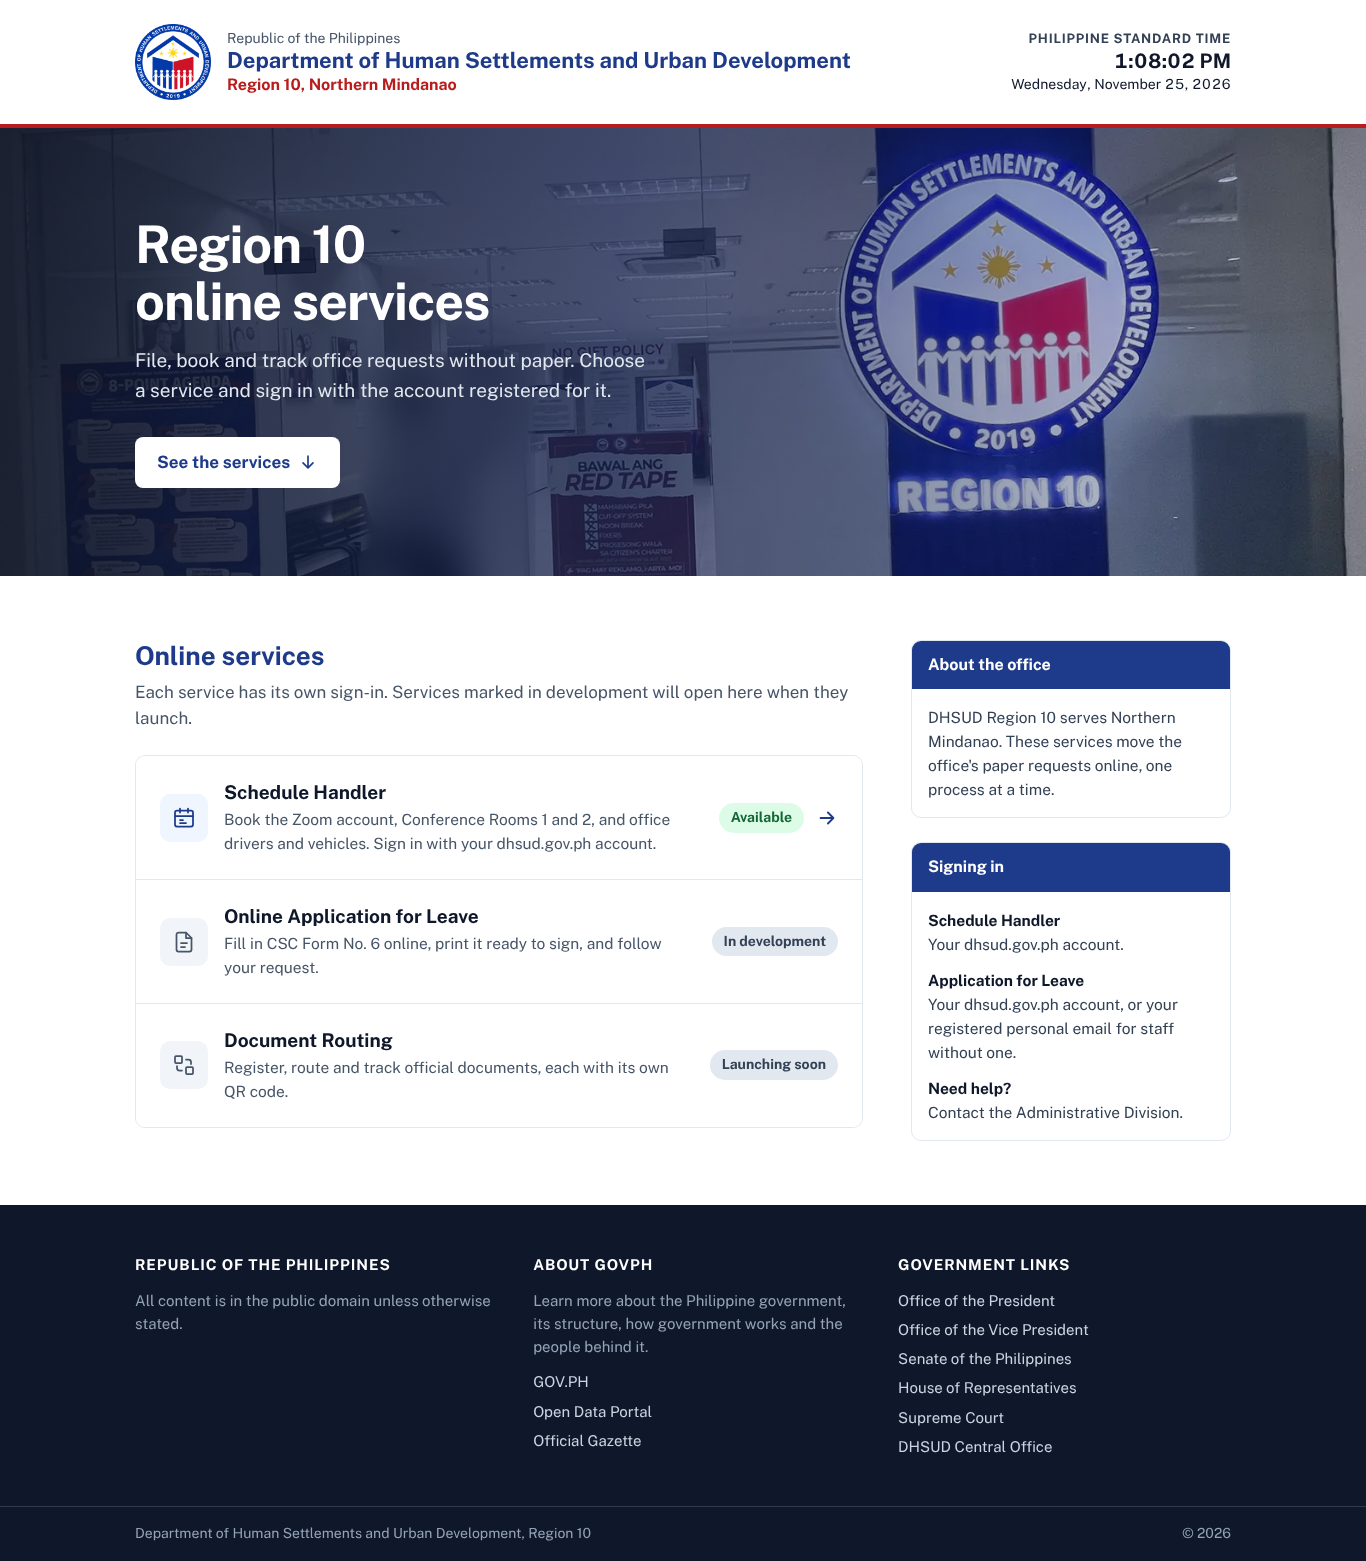
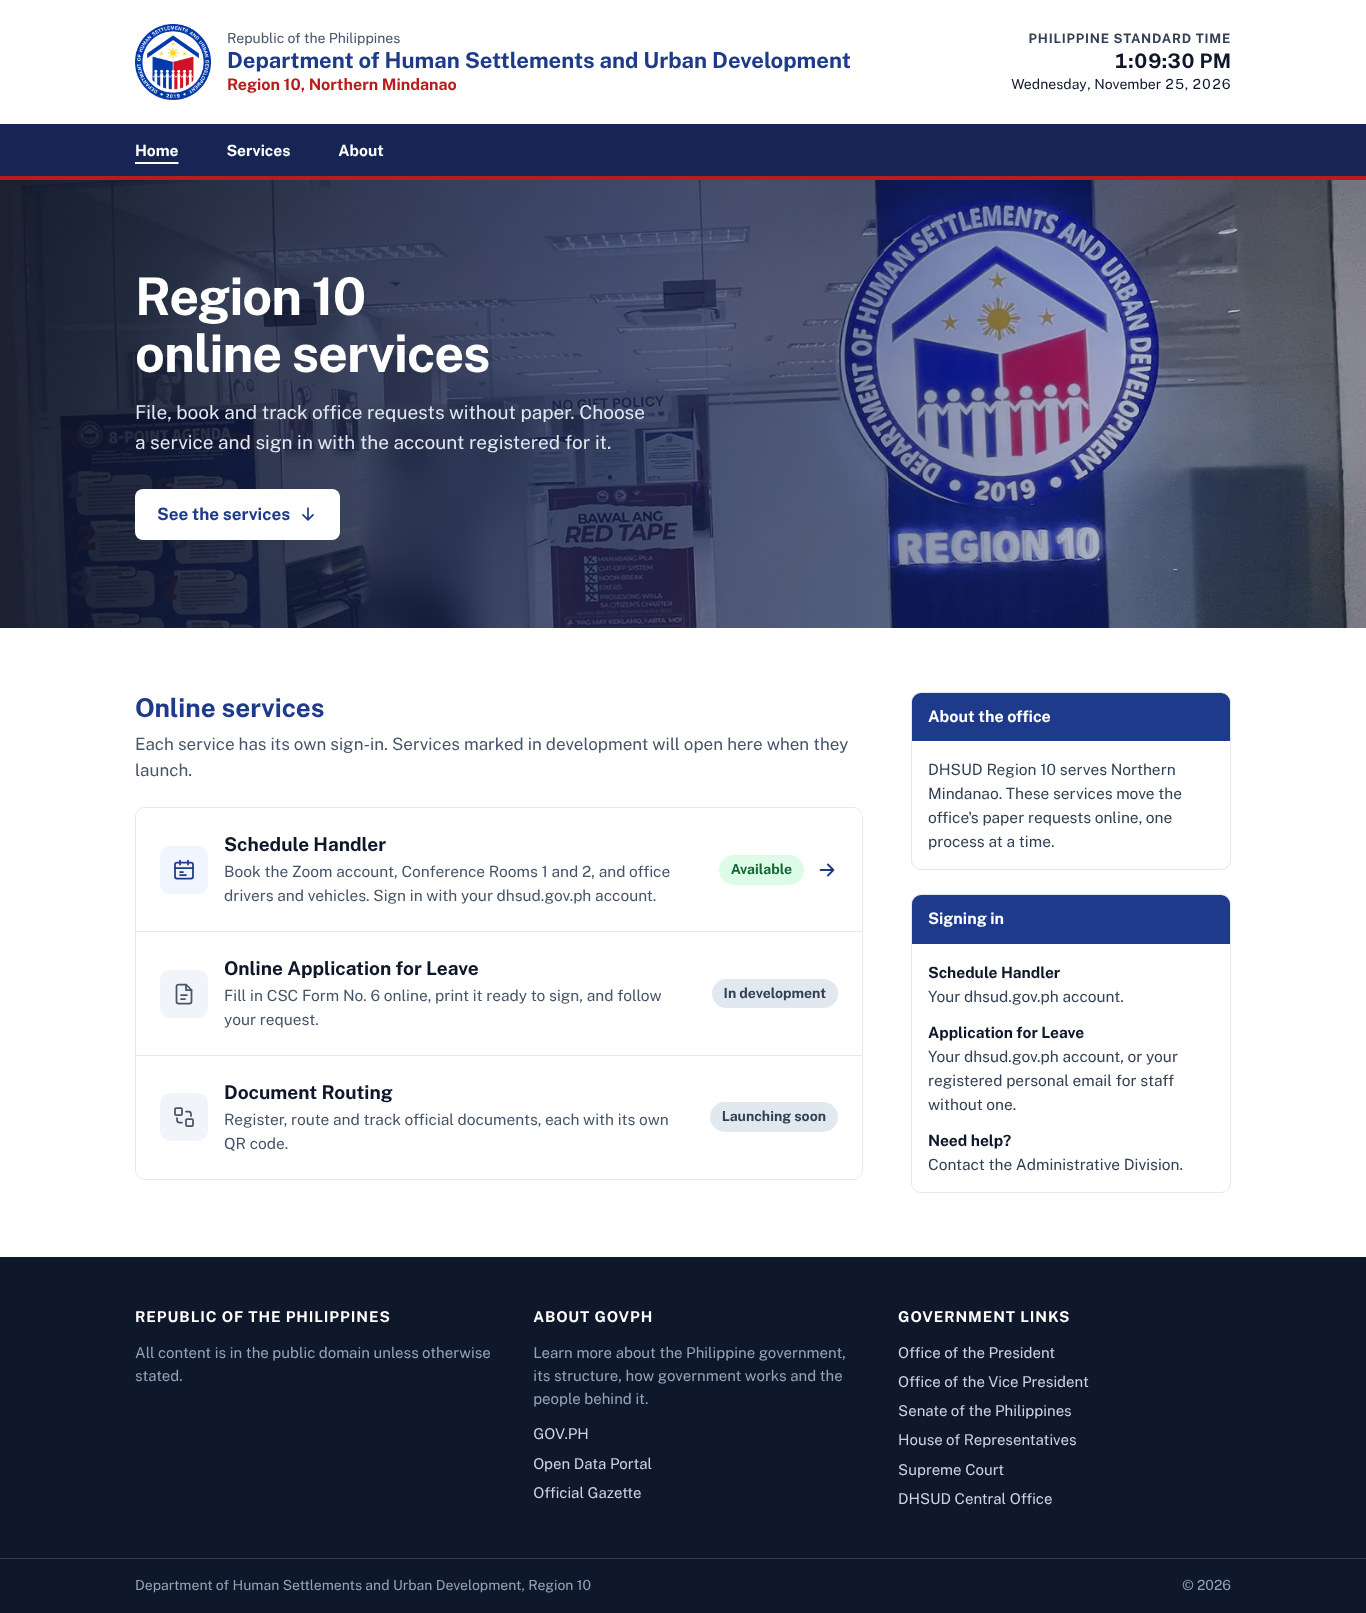
Bring back the menu bar in darker navy
Keeps the GOVPH bar removed and restores the Home, Services and About
menu under the white masthead, now in navy #172554.

diff --git a/index.html b/index.html
@@ -27,7 +27,7 @@
     @font-face { font-family: "Public Sans"; src: url("assets/fonts/public-sans-latin-700-normal.woff2") format("woff2"); font-weight: 700; font-style: normal; font-display: swap; }
 
     :root {
-      --navy: #1e3a8a; --navy-deep: #172554; --navy-hover: #1e40af; --navy-tint: #eff6ff;
+      --navy: #1e3a8a; --navy-deep: #172554; --navy-dark: #0f1a3d; --navy-hover: #1e40af; --navy-tint: #eff6ff;
       --red: #b91c1c; --gold: #fcd34d; --focus: #1d4ed8;
       --ink: #0f172a; --label: #334155; --muted: #475569; --line: #e2e8f0;
       --mist: #f8fafc; --hover: #f1f5f9; --white: #ffffff;
@@ -51,7 +51,7 @@
     .wrap { width: 100%; max-width: 1160px; margin: 0 auto; padding-inline: var(--space-6); }
 
     /* Masthead */
-    .masthead { background: var(--white); border-bottom: 4px solid var(--red); }
+    .masthead { background: var(--white); }
     .masthead .wrap { display: flex; align-items: center; justify-content: space-between; gap: var(--space-5); padding-block: var(--space-5); }
     .identity { display: flex; align-items: center; gap: var(--space-4); color: var(--ink); text-decoration: none; }
     .identity img { width: 76px; height: 76px; flex: none; }
@@ -63,6 +63,15 @@
     .pst b { display: block; font-size: 13px; font-weight: 700; color: var(--label); text-transform: uppercase; letter-spacing: .06em; }
     .pst time { display: block; font-variant-numeric: tabular-nums; color: var(--ink); }
     .pst .clock { font-size: 20px; font-weight: 700; }
+
+    /* Main nav */
+    .mainnav { background: var(--navy-deep); border-bottom: 4px solid var(--red); }
+    .mainnav ul { list-style: none; display: flex; margin: 0; padding: 0; overflow-x: auto; scrollbar-width: none; }
+    .mainnav a { display: block; padding: 14px var(--space-5); color: var(--white); text-decoration: none; font-weight: 700; font-size: 15.5px; white-space: nowrap; transition: background-color 150ms var(--ease-out); }
+    .mainnav li:first-child a { padding-left: 0; }
+    .mainnav a:hover, .mainnav a[aria-current="page"] { background: var(--navy-dark); color: var(--white); }
+    .mainnav li:first-child a:hover, .mainnav li:first-child a[aria-current="page"] { background: none; text-decoration: underline; text-underline-offset: 6px; text-decoration-thickness: 2px; }
+    .mainnav :focus-visible { outline-color: var(--gold); outline-offset: -3px; }
 
     /* Banner */
     .banner { position: relative; isolation: isolate; color: var(--white); background: var(--navy-deep); }
@@ -142,6 +151,7 @@
       .identity strong { font-size: 18px; }
       .identity em { font-size: 15px; }
       .pst { display: none; }
+      .mainnav a { padding: 12px 14px; font-size: 14.5px; }
       .banner .wrap { padding-block: var(--space-7); }
       .banner::before { background: linear-gradient(180deg, rgb(15 23 42 / .8) 0%, rgb(23 37 84 / .92) 100%); }
       .banner p { font-size: 17.5px; }
@@ -177,6 +187,16 @@
       </div>
     </div>
   </header>
+
+  <nav class="mainnav" aria-label="Main">
+    <div class="wrap">
+      <ul>
+        <li><a href="/" aria-current="page">Home</a></li>
+        <li><a href="#services">Services</a></li>
+        <li><a href="#about">About</a></li>
+      </ul>
+    </div>
+  </nav>
 
   <main>
     <section class="banner">

diff --git a/404.html b/404.html
@@ -17,7 +17,7 @@
     @font-face { font-family: "Public Sans"; src: url("/assets/fonts/public-sans-latin-700-normal.woff2") format("woff2"); font-weight: 700; font-style: normal; font-display: swap; }
 
     :root {
-      --navy: #1e3a8a; --navy-deep: #172554; --navy-hover: #1e40af; --navy-tint: #eff6ff;
+      --navy: #1e3a8a; --navy-deep: #172554; --navy-dark: #0f1a3d; --navy-hover: #1e40af; --navy-tint: #eff6ff;
       --red: #b91c1c; --gold: #fcd34d; --focus: #1d4ed8;
       --ink: #0f172a; --label: #334155; --muted: #475569; --line: #e2e8f0;
       --mist: #f8fafc; --hover: #f1f5f9; --white: #ffffff;
@@ -41,7 +41,7 @@
     .wrap { width: 100%; max-width: 1160px; margin: 0 auto; padding-inline: var(--space-6); }
 
     /* Masthead */
-    .masthead { background: var(--white); border-bottom: 4px solid var(--red); }
+    .masthead { background: var(--white); }
     .masthead .wrap { display: flex; align-items: center; justify-content: space-between; gap: var(--space-5); padding-block: var(--space-5); }
     .identity { display: flex; align-items: center; gap: var(--space-4); color: var(--ink); text-decoration: none; }
     .identity img { width: 76px; height: 76px; flex: none; }
@@ -53,6 +53,15 @@
     .pst b { display: block; font-size: 13px; font-weight: 700; color: var(--label); text-transform: uppercase; letter-spacing: .06em; }
     .pst time { display: block; font-variant-numeric: tabular-nums; color: var(--ink); }
     .pst .clock { font-size: 20px; font-weight: 700; }
+
+    /* Main nav */
+    .mainnav { background: var(--navy-deep); border-bottom: 4px solid var(--red); }
+    .mainnav ul { list-style: none; display: flex; margin: 0; padding: 0; overflow-x: auto; scrollbar-width: none; }
+    .mainnav a { display: block; padding: 14px var(--space-5); color: var(--white); text-decoration: none; font-weight: 700; font-size: 15.5px; white-space: nowrap; transition: background-color 150ms var(--ease-out); }
+    .mainnav li:first-child a { padding-left: 0; }
+    .mainnav a:hover, .mainnav a[aria-current="page"] { background: var(--navy-dark); color: var(--white); }
+    .mainnav li:first-child a:hover, .mainnav li:first-child a[aria-current="page"] { background: none; text-decoration: underline; text-underline-offset: 6px; text-decoration-thickness: 2px; }
+    .mainnav :focus-visible { outline-color: var(--gold); outline-offset: -3px; }
 
     /* Banner */
     .banner { position: relative; isolation: isolate; color: var(--white); background: var(--navy-deep); }
@@ -132,6 +141,7 @@
       .identity strong { font-size: 18px; }
       .identity em { font-size: 15px; }
       .pst { display: none; }
+      .mainnav a { padding: 12px 14px; font-size: 14.5px; }
       .banner .wrap { padding-block: var(--space-7); }
       .banner::before { background: linear-gradient(180deg, rgb(15 23 42 / .8) 0%, rgb(23 37 84 / .92) 100%); }
       .banner p { font-size: 17.5px; }
@@ -172,6 +182,16 @@
       </div>
     </div>
   </header>
+
+  <nav class="mainnav" aria-label="Main">
+    <div class="wrap">
+      <ul>
+        <li><a href="/">Home</a></li>
+        <li><a href="/#services">Services</a></li>
+        <li><a href="/#about">About</a></li>
+      </ul>
+    </div>
+  </nav>
 
   <main>
     <div class="wrap"><div class="nf">

diff --git a/README.md b/README.md
@@ -9,7 +9,7 @@ A static page with no login. It links to each DHSUD Region 10 service, and each 
 - `assets/`: the seal, favicons, the self-hosted Public Sans font (`fonts/`, SIL Open Font License), and the office photos: `hero.webp` (the banner on this page), `entrance.webp` and `login-panel.webp` (for service login screens). The security guard is blurred where he appears.
 
 ## Design
-The layout follows the standard Philippine government (GOVPH) website pattern: the agency masthead with the seal and Philippine Standard Time clock, a photo banner, the services list with a sidebar, and the GOVPH footer (Republic of the Philippines, About GOVPH, government links). Colours follow the DHSUD Document Routing design system (Government Navy `#1e3a8a`, slate neutrals, red for the region line and the masthead rule). Type is Public Sans. Services are listed as a directory: a live service is one full-width link row, and a service that isn't live yet shows its status in words and no link. Checked at 1366 and 390 px with no sideways scrolling.
+The layout follows the standard Philippine government (GOVPH) website pattern: the agency masthead with the seal and Philippine Standard Time clock, a navy menu bar (Home, Services, About), a photo banner, the services list with a sidebar, and the GOVPH footer (Republic of the Philippines, About GOVPH, government links). Colours follow the DHSUD Document Routing design system (Government Navy `#1e3a8a`, slate neutrals, red for the region line and the menu rule). Type is Public Sans. Services are listed as a directory: a live service is one full-width link row, and a service that isn't live yet shows its status in words and no link. Checked at 1366 and 390 px with no sideways scrolling.
 - `vercel.json`: clean URLs, security headers and image caching.
 
 ## Add or launch a service
